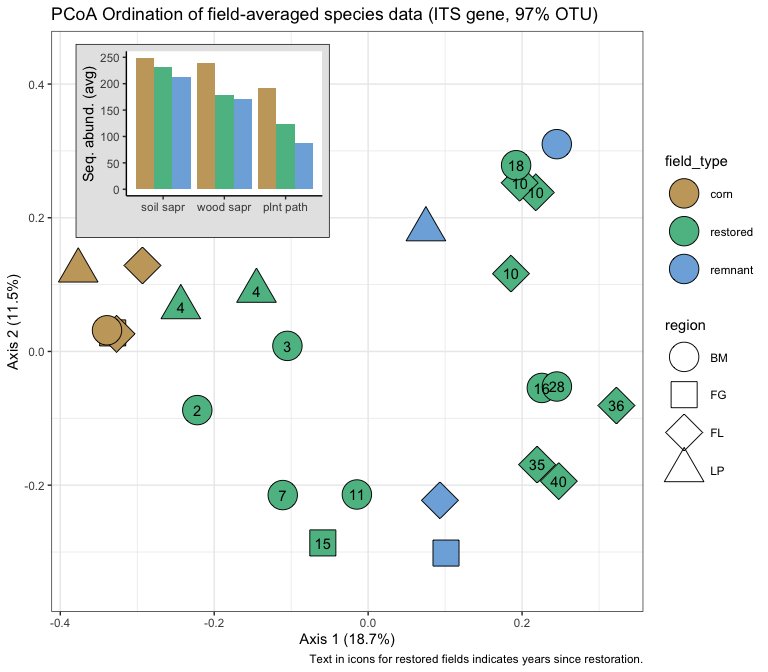
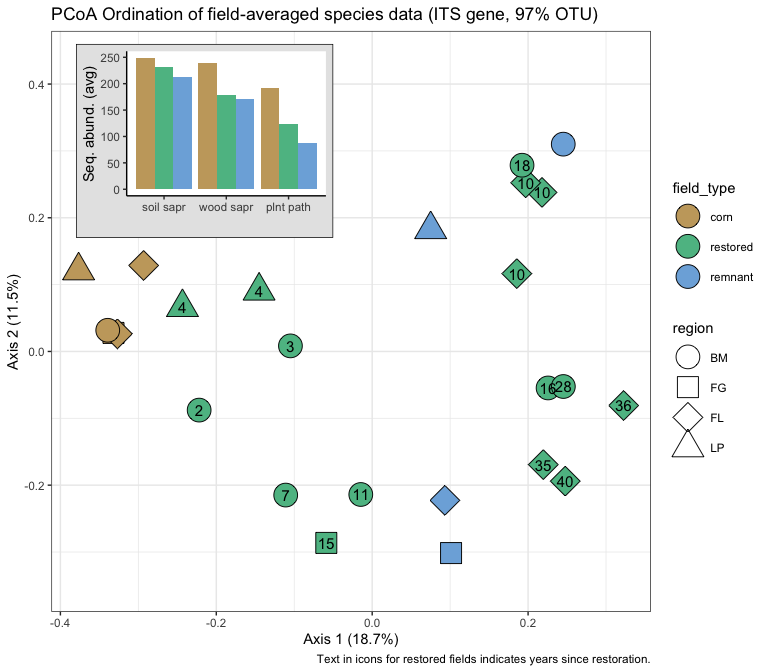
UPDATED microbial_communities.R

diff --git a/microbial_communities.md b/microbial_communities.md
@@ -2,7 +2,7 @@ Microbial data: community differences
 ================
 Beau Larkin
 
-Last updated: 04 December, 2023
+Last updated: 05 December, 2023
 
 - [Description](#description)
 - [Packages and libraries](#packages-and-libraries)
@@ -74,7 +74,7 @@ al. 2021](https://link.springer.com/article/10.1007/s12237-021-00917-2).
 # Packages and libraries
 
 ``` r
-packages_needed = c("tidyverse", "vegan", "colorspace", "ape", "knitr")
+packages_needed = c("tidyverse", "vegan", "colorspace", "ape", "knitr", "gridExtra")
 packages_installed = packages_needed %in% rownames(installed.packages())
 ```
 
@@ -491,7 +491,7 @@ correction is needed for these ordinations.
     ## group1     group2        R2   F_value   df1   df2     p_value   p_value_adj
     ## ---------  --------  ------  --------  ----  ----  ----------  ------------
     ## restored   corn       0.156     3.524     1    19   0.0005000        0.0015
-    ## restored   remnant    0.055     1.052     1    18   0.1360000        0.1360
+    ## restored   remnant    0.055     1.052     1    18   0.1390000        0.1390
     ## corn       remnant    0.289     2.850     1     7   0.0416667        0.0625
 
 Axis 1 explains 18.7% of the variation and is the only eigenvalue that
@@ -507,8 +507,8 @@ Let’s view a plot with abundances of community subgroups inset.
 ``` r
 pcoa_its$ord <-
     ggplot(pcoa_its$site_vectors, aes(x = Axis.1, y = Axis.2)) +
-    geom_point(aes(fill = field_type, shape = region), size = 10) +
-    geom_text(aes(label = yr_since)) +
+    geom_point(aes(fill = field_type, shape = region), size = 8) +
+    geom_text(aes(label = yr_since), size = 4) +
     scale_fill_discrete_qualitative(palette = "harmonic") +
     scale_shape_manual(values = c(21, 22, 23, 24)) +
     labs(
@@ -708,7 +708,7 @@ correction is needed for these ordinations.
     ## 
     ## adonis2(formula = d ~ field_key, data = env_w, permutations = nperm)
     ##           Df SumOfSqs      R2     F Pr(>F)    
-    ## field_key  1   0.7897 0.04252 2.398  5e-04 ***
+    ## field_key  1   0.7897 0.04252 2.398  0.001 ***
     ## Residual  54  17.7833 0.95748                 
     ## Total     55  18.5730 1.00000                 
     ## ---
@@ -719,7 +719,7 @@ correction is needed for these ordinations.
     ## ***VECTORS
     ## 
     ##             Axis.1    Axis.2    r2 Pr(>r)  
-    ## yr_since -0.997420  0.071762 0.725 0.0195 *
+    ## yr_since -0.997420  0.071762 0.725 0.0225 *
     ## ---
     ## Signif. codes:  0 '***' 0.001 '**' 0.01 '*' 0.05 '.' 0.1 ' ' 1
     ## Plots: field_key, plot permutation: free
@@ -738,8 +738,8 @@ Indeed, the first four axes are borderline important. The relatively low
 percent variation explained is partly due to the high number of
 dimensions used when all samples from fields are included. The fidelity
 of samples to fields was significant based on a permutation test
-$(R^2=0.04,~p=5\times 10^{-4})$. In this case, the partial $R^2$ shows
-the proportion of sum of squares from the total. It is a low number here
+$(R^2=0.04,~p=0.001)$. In this case, the partial $R^2$ shows the
+proportion of sum of squares from the total. It is a low number here
 because so much unexplained variation exists, resulting in a high sum of
 squares that is outside the assignment of subsamples to fields.
 
@@ -867,7 +867,7 @@ correction was applied.
     ## 
     ## adonis2(formula = d ~ field_type, data = env_w, permutations = gl_perm_design)
     ##             Df SumOfSqs      R2      F Pr(>F)    
-    ## field_type   2    5.790 0.08144 8.7335  5e-04 ***
+    ## field_type   2    5.790 0.08144 8.7335  0.001 ***
     ## Residual   197   65.303 0.91856                  
     ## Total      199   71.094 1.00000                  
     ## ---
@@ -879,8 +879,8 @@ correction was applied.
     ## group1     group2        R2   F_value   df1   df2     p_value   p_value_adj
     ## ---------  --------  ------  --------  ----  ----  ----------  ------------
     ## restored   corn       0.066    11.791     1   166   0.0015000        0.0045
-    ## restored   remnant    0.018     2.835     1   158   0.2085000        0.2085
-    ## corn       remnant    0.135    10.946     1    70   0.1428571        0.2085
+    ## restored   remnant    0.018     2.835     1   158   0.2120000        0.2120
+    ## corn       remnant    0.135    10.946     1    70   0.1428571        0.2120
 
 Axis 1 explains 8.2% and axis 2 explains 5% of the variation in the
 community data. Both axes are important based on the broken stick model,
@@ -890,7 +890,7 @@ variation explained on axes 1 and 2 is partly due to the high number of
 dimensions used when all samples from fields are included. The fidelity
 of samples to fields was strong based on a permutation test when
 restricting permutations to fields (=plots in `how()`) within regions
-(=blocks in `how()`) $(R^2=0.08,~p=5\times 10^{-4})$.
+(=blocks in `how()`) $(R^2=0.08,~p=0.001)$.
 
 Let’s view an ordination plot with hulls around subsamples.
 
@@ -903,11 +903,12 @@ hull_its <- pcoa_its_samps$site_vectors %>%
 ```
 
 ``` r
-ggplot(pcoa_its_samps$site_vectors, aes(x = Axis.1, y = Axis.2)) +
-    geom_point(aes(fill = field_type), shape = 21) +
+its_samps_fig <- 
+    ggplot(pcoa_its_samps$site_vectors, aes(x = Axis.1, y = Axis.2)) +
+    geom_point(aes(fill = field_type), shape = 21, alpha = 0.8, color = "gray10") +
     geom_polygon(data = hull_its, aes(group = field_key, fill = field_type), alpha = 0.3) +
-    geom_point(data = centroid_its, aes(fill = field_type, shape = region), size = 8) +
-    geom_text(data = centroid_its, aes(label = yr_since)) +
+    geom_point(data = centroid_its, aes(fill = field_type, shape = region), size = 6) +
+    geom_text(data = centroid_its, aes(label = yr_since), size = 3) +
     labs(
         x = paste0("Axis 1 (", pcoa_its_samps$eigenvalues[1], "%)"),
         y = paste0("Axis 2 (", pcoa_its_samps$eigenvalues[2], "%)"),
@@ -918,15 +919,33 @@ ggplot(pcoa_its_samps$site_vectors, aes(x = Axis.1, y = Axis.2)) +
         ),
         caption = "Text indicates years since restoration."
     ) +
+    lims(y = c(-0.35, 0.48)) +
     scale_fill_discrete_qualitative(name = "Field Type", palette = "Harmonic") +
     scale_shape_manual(name = "Region", values = c(21, 22, 23, 24)) +
     theme_bw() +
     guides(fill = guide_legend(override.aes = list(shape = 21)))
 ```
 
+``` r
+(its_samps_guilds_fig <- 
+    its_samps_fig +
+    annotation_custom(
+        ggplotGrob(
+            pcoa_its$inset + 
+                theme(
+            plot.background = element_rect(colour = "black", fill = "gray90"), 
+            axis.title.y = element_text(size = 8)
+        )),
+        xmin = -0.40,
+        xmax = -0.05,
+        ymin = 0.20,
+        ymax = 0.48
+    ))
+```
+
     ## Warning: Removed 9 rows containing missing values (`geom_text()`).
 
-<img src="microbial_communities_files/figure-gfm/its_samps_fig-1.png" style="display: block; margin: auto;" />
+<img src="microbial_communities_files/figure-gfm/its_samps_guilds_fig-1.png" style="display: block; margin: auto;" />
 
 #### PCoA in Blue Mounds, all subsamples
 
@@ -997,7 +1016,7 @@ replication.
     ## 
     ## adonis2(formula = d ~ field_type, data = env_w, permutations = gl_perm_design)
     ##            Df SumOfSqs      R2      F Pr(>F)  
-    ## field_type  2   3.0623 0.11984 4.6975   0.03 *
+    ## field_type  2   3.0623 0.11984 4.6975  0.032 *
     ## Residual   69  22.4900 0.88016                
     ## Total      71  25.5523 1.00000                
     ## ---
@@ -1008,9 +1027,9 @@ replication.
     ## 
     ## group1     group2        R2   F_value   df1   df2   p_value   p_value_adj
     ## ---------  --------  ------  --------  ----  ----  --------  ------------
-    ## restored   remnant    0.068     4.522     1    62    0.1395       0.20925
-    ## restored   corn       0.069     4.602     1    62    0.1240       0.20925
-    ## remnant    corn       0.301     6.016     1    14    1.0000       1.00000
+    ## restored   remnant    0.068     4.522     1    62     0.129        0.1935
+    ## restored   corn       0.069     4.602     1    62     0.120        0.1935
+    ## remnant    corn       0.301     6.016     1    14     1.000        1.0000
 
 Field type remains significant.
 
@@ -1159,7 +1178,7 @@ replication.
     ## 
     ## adonis2(formula = d ~ field_type, data = env_w, permutations = gl_perm_design)
     ##            Df SumOfSqs      R2      F Pr(>F)  
-    ## field_type  2   4.1654 0.17625 7.3814 0.0185 *
+    ## field_type  2   4.1654 0.17625 7.3814 0.0175 *
     ## Residual   69  19.4688 0.82375                
     ## Total      71  23.6343 1.00000                
     ## ---
@@ -1171,8 +1190,8 @@ replication.
     ## group1    group2         R2   F_value   df1   df2     p_value   p_value_adj
     ## --------  ---------  ------  --------  ----  ----  ----------  ------------
     ## corn      remnant     0.244     7.092     1    22   0.3333333        0.5000
-    ## corn      restored    0.158    11.665     1    62   0.0405000        0.1215
-    ## remnant   restored    0.046     2.613     1    54   0.5690000        0.5690
+    ## corn      restored    0.158    11.665     1    62   0.0280000        0.0840
+    ## remnant   restored    0.046     2.613     1    54   0.5625000        0.5625
 
 Field type is again significant by permutation test.
 
@@ -1293,11 +1312,12 @@ hull_regions_its <- pcoa_its_site_vectors %>%
 ```
 
 ``` r
-ggplot(pcoa_its_site_vectors, aes(x = Axis.1, y = Axis.2)) +
+(its_samps_regions_fig <- 
+    ggplot(pcoa_its_site_vectors, aes(x = Axis.1, y = Axis.2)) +
     facet_wrap(vars(place), scales = "free") +
-    geom_point(aes(fill = field_type), shape = 21) +
+    geom_point(aes(fill = field_type), shape = 21, alpha = 0.8, color = "gray10") +
     geom_polygon(data = hull_regions_its, aes(group = field_key, fill = field_type), alpha = 0.3) +
-    geom_point(data = centroid_regions_its, aes(fill = field_type, shape = region), size = 6) +
+    geom_point(data = centroid_regions_its, aes(fill = field_type, shape = region), size = 5) +
     geom_text(data = centroid_regions_its, aes(label = yr_since), size = 2.5) +
     labs(
         x = paste0("Axis 1"),
@@ -1307,7 +1327,7 @@ ggplot(pcoa_its_site_vectors, aes(x = Axis.1, y = Axis.2)) +
     scale_fill_discrete_qualitative(name = "Field Type", palette = "Harmonic") +
     scale_shape_manual(name = "Region", values = c(21, 22, 23, 24)) +
     theme_bw() +
-    guides(fill = guide_legend(override.aes = list(shape = 21)))
+    guides(fill = guide_legend(override.aes = list(shape = 21))))
 ```
 
 <img src="microbial_communities_files/figure-gfm/its_samps_regions_fig-1.png" style="display: block; margin: auto;" />
@@ -1315,7 +1335,7 @@ ggplot(pcoa_its_site_vectors, aes(x = Axis.1, y = Axis.2)) +
 The eigenvalues are shown below:
 
 ``` r
-kable(pcoa_its_eigenvalues, format = "pandoc") 
+kable(pcoa_its_eigenvalues, format = "pandoc")
 ```
 
 | place         | axis_1 | axis_2 |
@@ -1324,6 +1344,24 @@ kable(pcoa_its_eigenvalues, format = "pandoc")
 | Faville Grove |   26.6 |   11.7 |
 | Fermilab      |   14.5 |   10.3 |
 | Lake Petite   |   15.7 |   10.8 |
+
+``` r
+write_csv(pcoa_its_eigenvalues, file = "microbial_communities_files/pcoa_its_eig.csv")
+```
+
+Let’s view and save a plot that shows all the data together and broken
+out by regions.
+
+``` r
+grid.arrange(
+    its_samps_guilds_fig + labs(caption = ""), 
+    its_samps_regions_fig + theme(legend.position = "none"), 
+    ncol = 1,
+    heights = c(1.2,0.8)
+    )
+```
+
+<img src="microbial_communities_files/figure-gfm/its_samps_unified_fig-1.png" style="display: block; margin: auto;" />
 
 ## 18S gene, OTU clustering
 
@@ -1432,10 +1470,10 @@ No negative eigenvalues produced, no correction applied.
     ## Number of permutations: 1999
     ## 
     ## adonis2(formula = d ~ field_type, data = env, permutations = nperm, add = if (corr == "none") FALSE else "lingoes", strata = region)
-    ##            Df SumOfSqs      R2      F Pr(>F)   
-    ## field_type  2   1.0956 0.24872 3.6417 0.0025 **
-    ## Residual   22   3.3094 0.75128                 
-    ## Total      24   4.4050 1.00000                 
+    ##            Df SumOfSqs      R2      F Pr(>F)    
+    ## field_type  2   1.0956 0.24872 3.6417  0.001 ***
+    ## Residual   22   3.3094 0.75128                  
+    ## Total      24   4.4050 1.00000                  
     ## ---
     ## Signif. codes:  0 '***' 0.001 '**' 0.01 '*' 0.05 '.' 0.1 ' ' 1
     ## 
@@ -1445,7 +1483,7 @@ No negative eigenvalues produced, no correction applied.
     ## group1     group2        R2   F_value   df1   df2     p_value   p_value_adj
     ## ---------  --------  ------  --------  ----  ----  ----------  ------------
     ## restored   corn       0.254     6.474     1    19   0.0005000        0.0015
-    ## restored   remnant    0.023     0.422     1    18   0.9715000        0.9715
+    ## restored   remnant    0.023     0.422     1    18   0.9665000        0.9665
     ## corn       remnant    0.382     4.324     1     7   0.0416667        0.0625
 
 Four axes are significant by a broken stick model, between them
@@ -1455,7 +1493,7 @@ substantial variation here is on the first axis (27.5%) with Axis 2
 explaining 17.8% of the variation in AMF abundances. Testing the design
 factor *field_type* (with *region* treated as a block using the `strata`
 argument of `adonis2`) revealed a significant clustering
-$(R^2=0.25,~p=0.002)$.
+$(R^2=0.25,~p=0.001)$.
 
 Let’s view a plot with abundances of community subgroups inset.
 
@@ -1688,7 +1726,7 @@ relationship $(R^2_{Adj}=0.56,~p<0.005)$
     ## group1     group2        R2   F_value   df1   df2     p_value   p_value_adj
     ## ---------  --------  ------  --------  ----  ----  ----------  ------------
     ## restored   corn       0.240     5.989     1    19   0.0015000        0.0045
-    ## restored   remnant    0.025     0.467     1    18   0.9745000        0.9745
+    ## restored   remnant    0.025     0.467     1    18   0.9720000        0.9720
     ## corn       remnant    0.382     4.324     1     7   0.0416667        0.0625
 
 Three axes are significant by a broken stick model, between them
@@ -1913,7 +1951,7 @@ negative eigenvalues.
     ## ***VECTORS
     ## 
     ##            Axis.1   Axis.2   Axis.3   Axis.4   Axis.5     r2 Pr(>r)  
-    ## yr_since -0.84928  0.37660 -0.19661  0.19812  0.24287 0.7715 0.0175 *
+    ## yr_since -0.84928  0.37660 -0.19661  0.19812  0.24287 0.7715  0.018 *
     ## ---
     ## Signif. codes:  0 '***' 0.001 '**' 0.01 '*' 0.05 '.' 0.1 ' ' 1
     ## Plots: field_key, plot permutation: free
@@ -2062,7 +2100,7 @@ correction was applied.
     ## 
     ## adonis2(formula = d ~ field_type, data = env_w, permutations = gl_perm_design)
     ##             Df SumOfSqs      R2     F Pr(>F)   
-    ## field_type   2    5.367 0.10872 10.49 0.0025 **
+    ## field_type   2    5.367 0.10872 10.49 0.0015 **
     ## Residual   172   44.004 0.89128                
     ## Total      174   49.372 1.00000                
     ## ---
@@ -2073,8 +2111,8 @@ correction was applied.
     ## 
     ## group1     group2        R2   F_value   df1   df2     p_value   p_value_adj
     ## ---------  --------  ------  --------  ----  ----  ----------  ------------
-    ## restored   corn       0.056     8.657     1   145   0.0015000     0.0045000
-    ## restored   remnant    0.008     1.052     1   138   0.9970000     0.9970000
+    ## restored   corn       0.056     8.657     1   145   0.0010000     0.0030000
+    ## restored   remnant    0.008     1.052     1   138   0.9975000     0.9975000
     ## corn       remnant    0.111     7.636     1    61   0.1020408     0.1530612
 
 Axis 1 explains 7.1% and axis 2 explains 5% of the variation in the
@@ -2085,7 +2123,7 @@ variation explained on axes 1 and 2 is partly due to the high number of
 dimensions used when all samples from fields are included. The fidelity
 of samples to fields was strong based on a permutation test when
 restricting permutations to fields (=plots in `how()`) within regions
-(=blocks in `how()`) $(R^2=0.11,~p=0.0025)$.
+(=blocks in `how()`) $(R^2=0.11,~p=0.0015)$.
 
 Let’s view an ordination plot with hulls around subsamples.
 
@@ -2191,7 +2229,7 @@ replication.
     ## 
     ## adonis2(formula = d ~ field_type, data = env_w, permutations = gl_perm_design)
     ##            Df SumOfSqs      R2      F Pr(>F)  
-    ## field_type  2   2.8261 0.17037 6.1608 0.0925 .
+    ## field_type  2   2.8261 0.17037 6.1608 0.0935 .
     ## Residual   60  13.7616 0.82963                
     ## Total      62  16.5876 1.00000                
     ## ---
@@ -2202,9 +2240,9 @@ replication.
     ## 
     ## group1     group2        R2   F_value   df1   df2   p_value   p_value_adj
     ## ---------  --------  ------  --------  ----  ----  --------  ------------
-    ## restored   remnant    0.053     3.017     1    54    0.3695       0.55425
-    ## restored   corn       0.085     5.001     1    54    0.1255       0.37650
-    ## remnant    corn       0.466    10.454     1    12    1.0000       1.00000
+    ## restored   remnant    0.053     3.017     1    54     0.371        0.5565
+    ## restored   corn       0.085     5.001     1    54     0.133        0.3990
+    ## remnant    corn       0.466    10.454     1    12     1.000        1.0000
 
 Field type trends significant. Four axes significant.
 
@@ -2361,7 +2399,7 @@ replication.
     ## 
     ## adonis2(formula = d ~ field_type, data = env_w, permutations = gl_perm_design)
     ##            Df SumOfSqs      R2     F Pr(>F)  
-    ## field_type  2   2.8077 0.16208 5.803  0.047 *
+    ## field_type  2   2.8077 0.16208 5.803 0.0405 *
     ## Residual   60  14.5152 0.83792               
     ## Total      62  17.3229 1.00000               
     ## ---
@@ -2373,8 +2411,8 @@ replication.
     ## group1    group2         R2   F_value   df1   df2     p_value   p_value_adj
     ## --------  ---------  ------  --------  ----  ----  ----------  ------------
     ## corn      remnant     0.191     4.495     1    19   0.3333333        0.5000
-    ## corn      restored    0.101     6.039     1    54   0.0420000        0.1260
-    ## remnant   restored    0.034     1.640     1    47   0.7355000        0.7355
+    ## corn      restored    0.101     6.039     1    54   0.0305000        0.0915
+    ## remnant   restored    0.034     1.640     1    47   0.7225000        0.7225
 
 Field type is again significant by permutation test. Six axes are
 significant.
